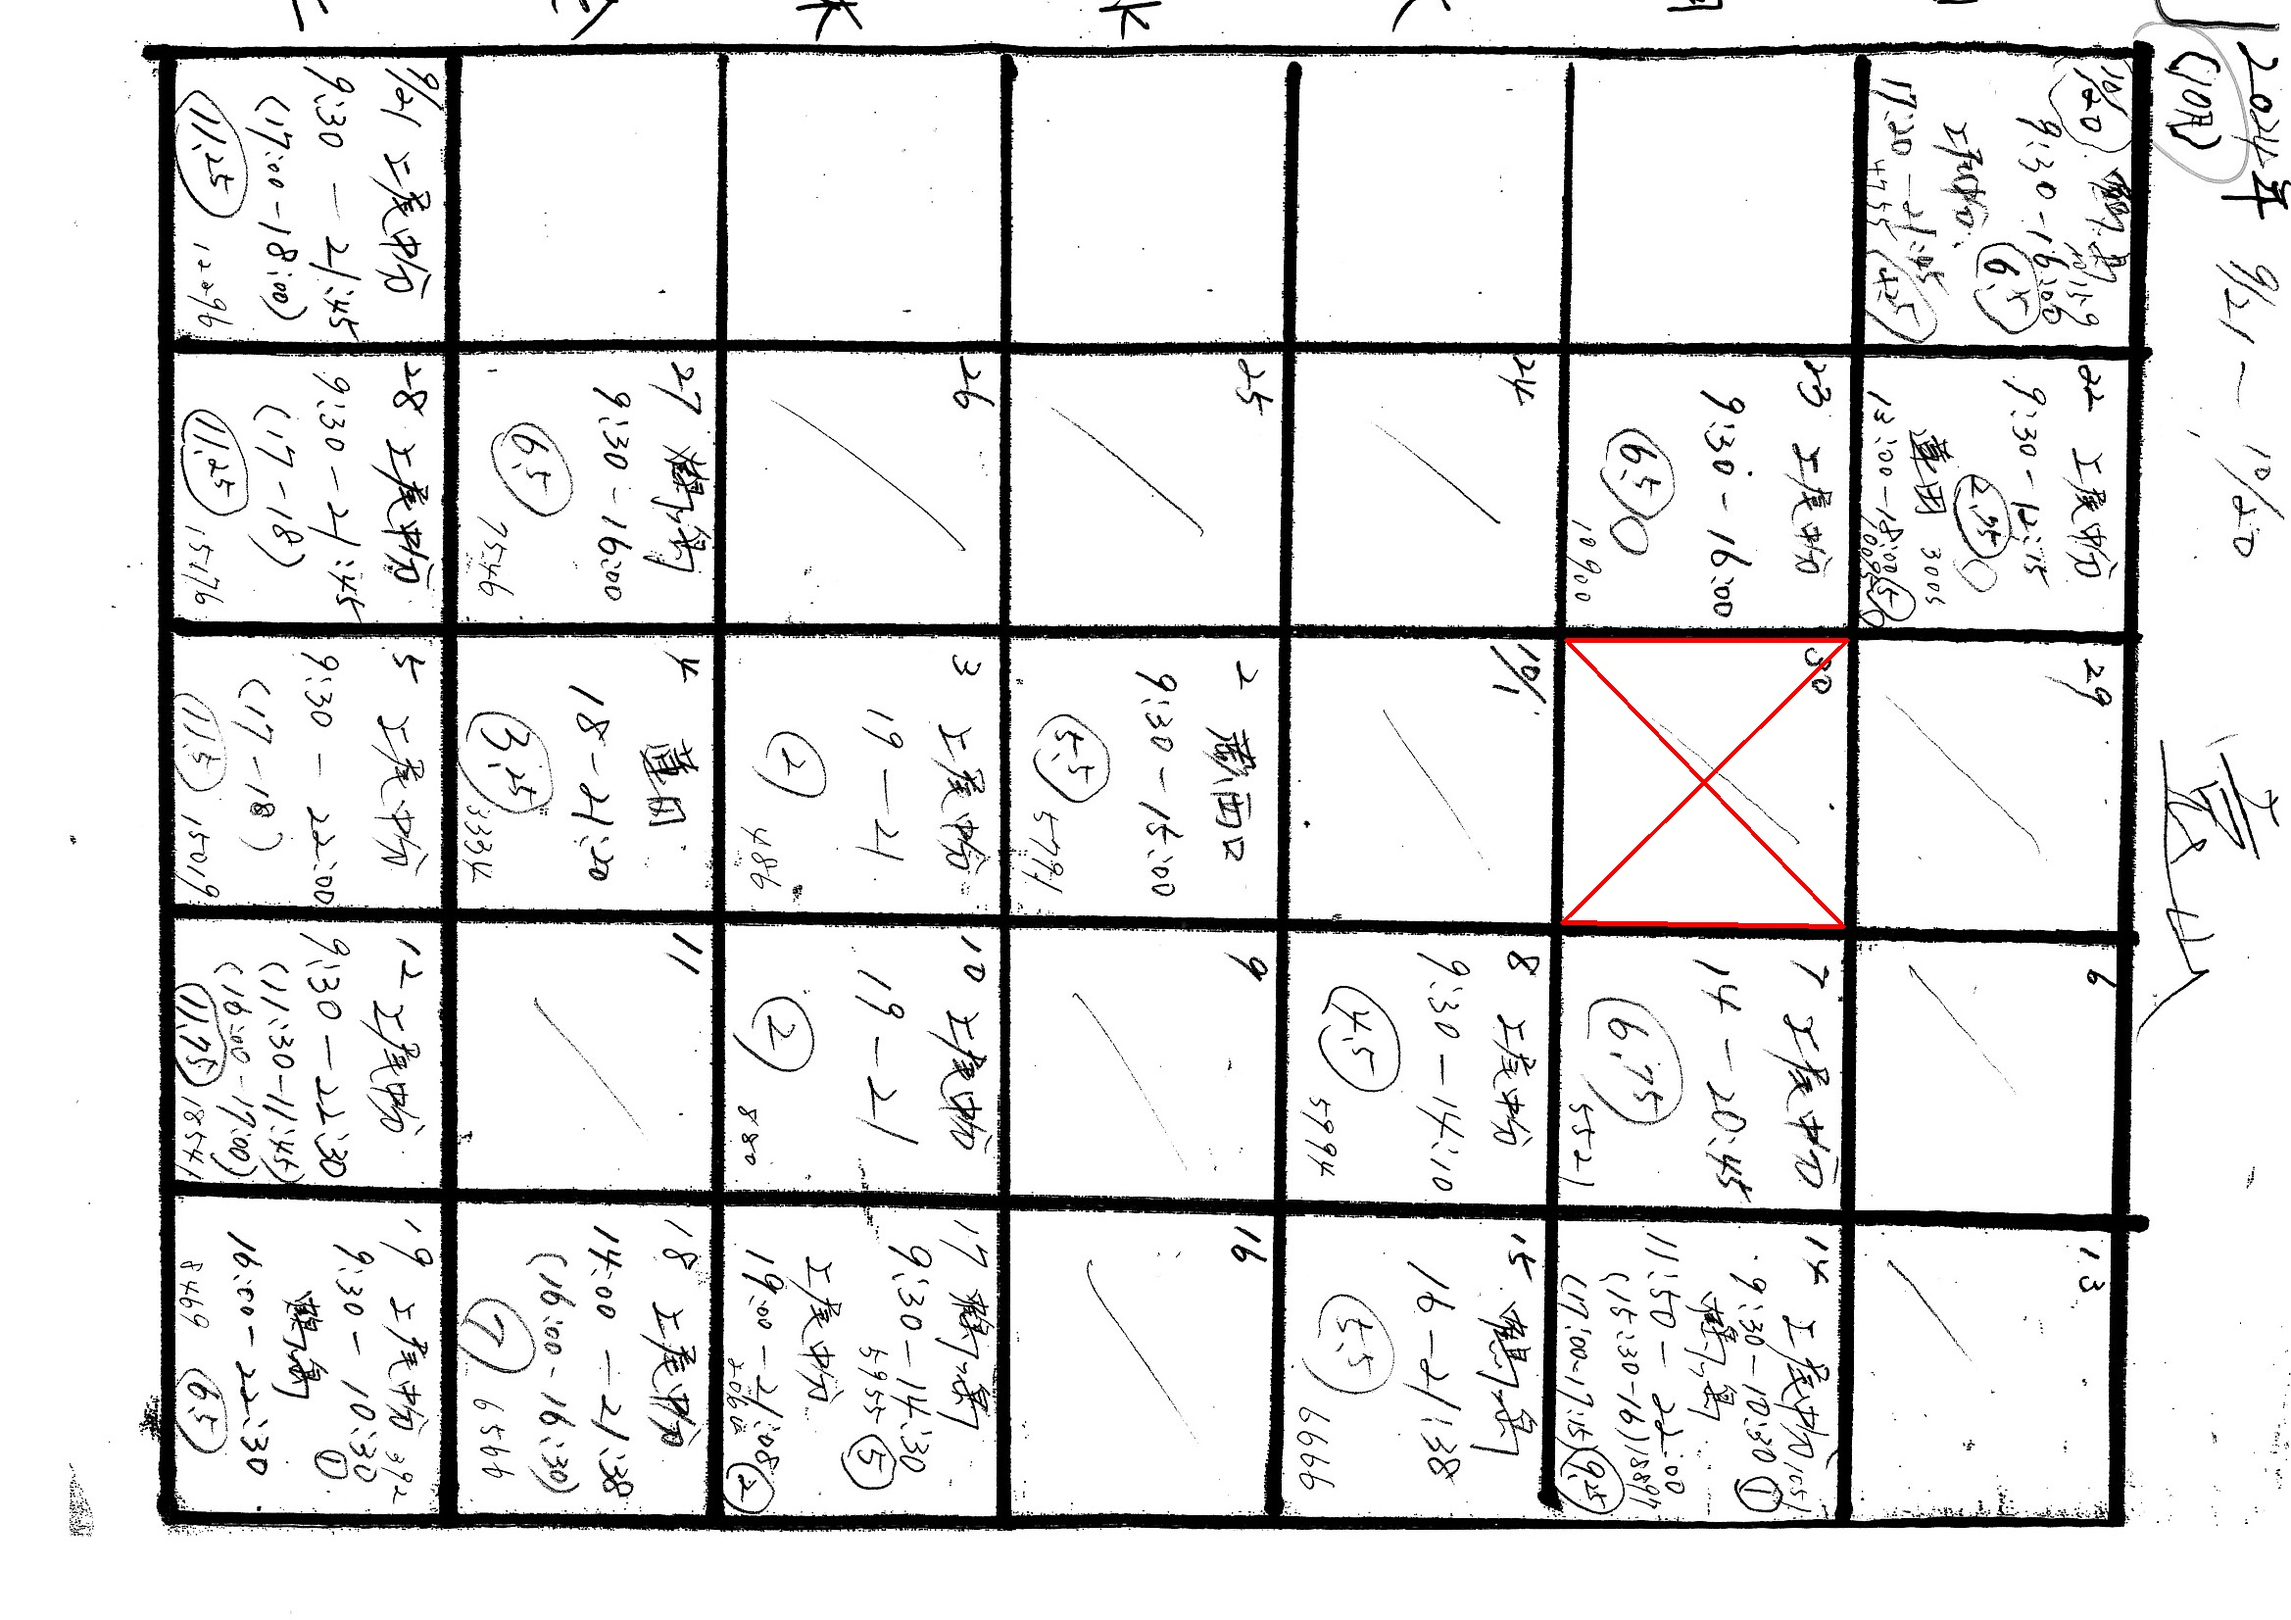
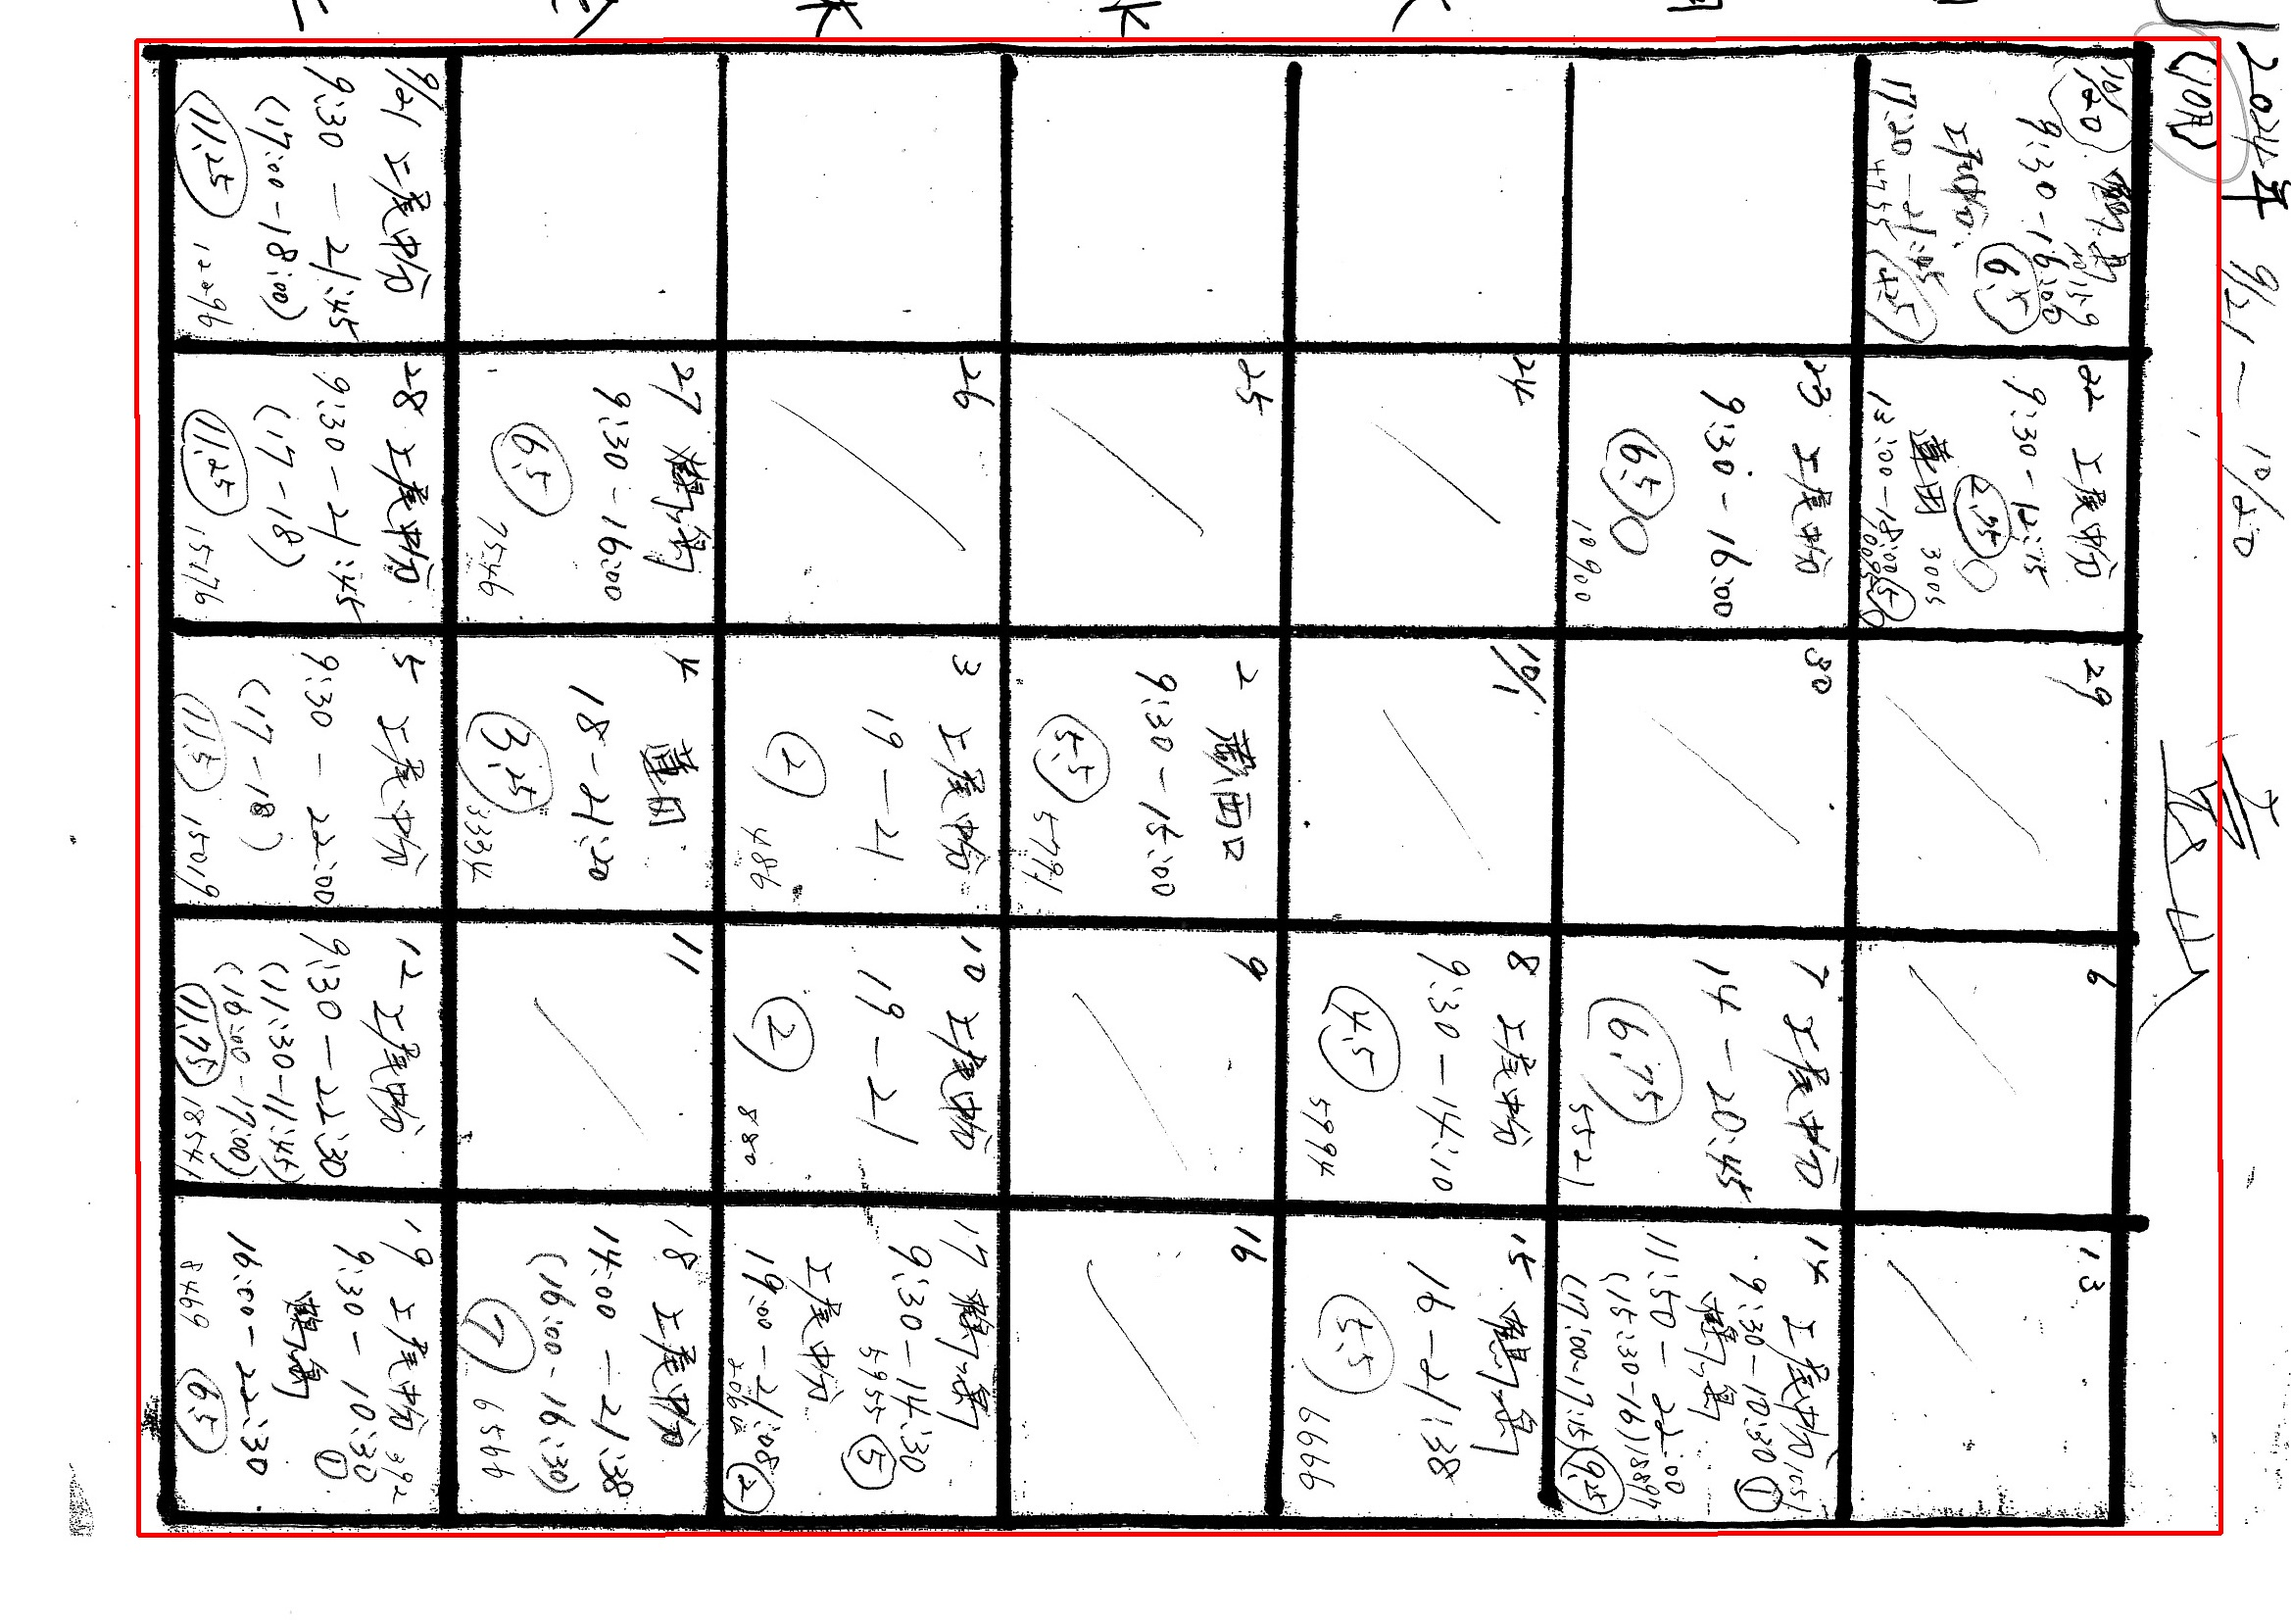
flisk

diff --git a/detect_table.py b/detect_table.py
@@ -4,7 +4,7 @@ import cv2
 import numpy as np
 
 def detect_table_bounds(image):
-    """画像内の最も外側の表の枠（矩形）を検出し、四隅の座標を返す"""
+    """画像内の最も外側の表の枠を検出し、四隅の座標を返す"""
 
     # グレースケール変換
     gray = cv2.cvtColor(image, cv2.COLOR_BGR2GRAY)
@@ -13,33 +13,57 @@ def detect_table_bounds(image):
     blurred = cv2.GaussianBlur(gray, (5, 5), 0)
 
     # エッジ検出（Canny）
-    edges = cv2.Canny(blurred, 50, 150)
+    median = np.median(gray)
+    low = int(max(0, 0.66 * median))
+    high = int(min(255, 1.33 * median))
 
-    # 輪郭を検出
-    contours, _ = cv2.findContours(edges, cv2.RETR_EXTERNAL, cv2.CHAIN_APPROX_SIMPLE)
+    edges = cv2.Canny(blurred, low, high)
+    #edges = cv2.Canny(blurred, 50, 150)
 
-    # 最大の輪郭（表全体の枠）を取得
-    largest_contour = max(contours, key=cv2.contourArea)
+    kernel = np.ones((3,3), np.uint8)
+    edges = cv2.dilate(edges, kernel, iterations=1)
 
-    # 輪郭を近似（四角形にする）
-    epsilon = 0.02 * cv2.arcLength(largest_contour, True)
-    approx = cv2.approxPolyDP(largest_contour, epsilon, True)
+    cv2.imwrite("edges_debug.png", edges)
+    # 輪郭を検出（ツリー構造で取得）
+    contours, hierarchy = cv2.findContours(edges, cv2.RETR_TREE, cv2.CHAIN_APPROX_SIMPLE)
 
-    if len(approx) != 4:
-        print("エラー: 表の枠が四角形として認識されませんでした。", file=sys.stderr)
+    # 最大の矩形を探す
+    max_area = 0
+    best_box = None
+
+    for cnt in contours:
+        # 面積が一定以上のものを対象とする（ノイズ除去）
+        area = cv2.contourArea(cnt)
+        if area < 5000:  # 小さい矩形は除外
+            continue
+
+        # 最小外接矩形（回転可能）
+        rect = cv2.minAreaRect(cnt)
+        box = cv2.boxPoints(rect)
+        box = box.astype(int)  # ここを修正（np.int0 → .astype(int)）
+
+        # アスペクト比のチェック（極端に細長いものを排除）
+        width = np.linalg.norm(box[0] - box[1])
+        height = np.linalg.norm(box[1] - box[2])
+        aspect_ratio = max(width, height) / min(width, height)
+
+        if aspect_ratio > 10:  # 縦長・横長すぎるものを除外
+            continue
+
+        # 最大の矩形を更新
+        if area > max_area:
+            max_area = area
+            best_box = box
+
+    if best_box is None:
+        print("エラー: 表の枠が検出できませんでした。", file=sys.stderr)
         sys.exit(1)
 
-    # 四隅の座標を取得（左上、右上、右下、左下）
-    rect = sorted(approx[:, 0], key=lambda p: (p[1], p[0]))  # Y優先ソート
-    if rect[0][0] > rect[1][0]:
-        rect[0], rect[1] = rect[1], rect[0]
-    if rect[2][0] > rect[3][0]:
-        rect[2], rect[3] = rect[3], rect[2]
-
-    return rect  # [(x1, y1), (x2, y2), (x3, y3), (x4, y4)]
+    # タブ区切りで四隅の座標を出力
+    return [(int(pt[0]), int(pt[1])) for pt in best_box]
 
 def main():
-    # 標準入力から画像を受け取る
+    # 画像を標準入力から読み込む
     img_bytes = sys.stdin.buffer.read()
     np_arr = np.frombuffer(img_bytes, np.uint8)
     image = cv2.imdecode(np_arr, cv2.IMREAD_COLOR)
@@ -54,6 +78,6 @@ def main():
     # タブ区切りで出力
     print("\t".join(map(str, [coord for point in corners for coord in point])))
 
+
 if __name__ == "__main__":
     main()
-

diff --git a/upload.py b/upload.py
@@ -1,0 +1,58 @@
+import os
+import hashlib
+from flask import Flask, request, render_template_string
+
+app = Flask(__name__)
+
+UPLOAD_FOLDER = "/var/www/html/opencv"
+ALLOWED_EXTENSIONS = {"png", "jpg", "jpeg", "gif", "mp4", "avi", "mov", "txt", "pdf"}
+
+# 必要ならディレクトリを作成
+os.makedirs(UPLOAD_FOLDER, exist_ok=True)
+
+def allowed_file(filename):
+    return "." in filename and filename.rsplit(".", 1)[1].lower() in ALLOWED_EXTENSIONS
+
+@app.route("/python/", methods=["GET", "POST"])
+def upload_file():
+    if request.method == "POST":
+        if "file" not in request.files:
+            return "No file part", 400
+        file = request.files["file"]
+        if file.filename == "":
+            return "No selected file", 400
+        if file and allowed_file(file.filename):
+            file_data = file.read()
+            file_hash = hashlib.md5(file_data).hexdigest()
+            file_ext = os.path.splitext(file.filename)[1].lower()
+            new_filename = f"{file_hash}{file_ext}"
+            filepath = os.path.join(UPLOAD_FOLDER, new_filename)
+
+            with open(filepath, "wb") as f:
+                f.write(file_data)
+
+            return render_template_string("""
+            <html>
+            <head><meta charset="UTF-8"><title>Upload Success</title></head>
+            <body>
+                <h2>File uploaded successfully!</h2>
+                <p>Original File: {{ filename }}</p>
+                <p>Saved File: {{ new_filename }}</p>
+                <a href="/opencv/{{ new_filename }}" target="_blank">View File</a>
+            </body>
+            </html>
+            """, filename=file.filename, new_filename=new_filename)
+
+    return '''
+    <!doctype html>
+    <title>Upload File</title>
+    <h1>Upload a file</h1>
+    <form action="/python/" method="post" enctype="multipart/form-data">
+        <input type="file" name="file">
+        <input type="submit" value="Upload">
+    </form>
+    '''
+
+if __name__ == "__main__":
+    app.run(host="0.0.0.0", port=5000, debug=True)
+

diff --git a/rotate.py b/rotate.py
@@ -1,0 +1,63 @@
+#!/usr/bin/env python3
+import sys
+import os
+import cv2
+import numpy as np
+
+def rotate_image(input_stream, angle):
+    # 入力データをバイト列として読み取る
+    img_bytes = input_stream.read()
+    
+    # NumPy 配列に変換
+    np_arr = np.frombuffer(img_bytes, np.uint8)
+    
+    # OpenCV で画像をデコード
+    img = cv2.imdecode(np_arr, cv2.IMREAD_COLOR)
+    
+    if img is None:
+        print("エラー: 画像の読み込みに失敗しました。", file=sys.stderr)
+        sys.exit(1)
+
+    # 回転処理
+    if angle == 90:
+        img = cv2.rotate(img, cv2.ROTATE_90_CLOCKWISE)
+    elif angle == 180:
+        img = cv2.rotate(img, cv2.ROTATE_180)
+    elif angle == 270:
+        img = cv2.rotate(img, cv2.ROTATE_90_COUNTERCLOCKWISE)
+
+    return img
+
+def main():
+    # 引数チェック
+    if len(sys.argv) != 2:
+        print("使い方: python rotate.py <角度(0, 90, 180, 270)>", file=sys.stderr)
+        sys.exit(1)
+
+    # 角度を取得
+    try:
+        angle = int(sys.argv[1])
+        if angle not in {0, 90, 180, 270}:
+            raise ValueError
+    except ValueError:
+        print("エラー: 角度は 0, 90, 180, 270 のいずれかを指定してください。", file=sys.stderr)
+        sys.exit(1)
+
+    # 標準入力から画像を受け取る
+    img = rotate_image(sys.stdin.buffer, angle)
+
+    # 標準出力に書き込めるかチェック
+    if sys.stdout.isatty():
+        # 標準出力が使えない場合は、ファイルとして保存
+        input_filename = "output"
+        output_filename = f"{input_filename}.{angle}.jpeg"
+        cv2.imwrite(output_filename, img, [int(cv2.IMWRITE_JPEG_QUALITY), 95])
+        print(f"画像を {output_filename} に保存しました。")
+    else:
+        # 標準出力に書き込む
+        _, buffer = cv2.imencode(".jpeg", img, [int(cv2.IMWRITE_JPEG_QUALITY), 95])
+        sys.stdout.buffer.write(buffer.tobytes())
+
+if __name__ == "__main__":
+    main()
+

diff --git a/ocr_preprocess.py b/ocr_preprocess.py
@@ -1,0 +1,56 @@
+import cv2
+import numpy as np
+import pytesseract
+import argparse
+import os
+
+# 環境変数を設定（Tesseractが日本語を正しく認識できるようにする）
+os.environ["TESSDATA_PREFIX"] = "/usr/share/tesseract-ocr/5/tessdata"
+
+def preprocess_image(image_path):
+    """罫線を消去し、OCRしやすい画像を作成"""
+    # 画像を読み込む（カラー）
+    image = cv2.imread(image_path)
+
+    # グレースケール変換
+    gray = cv2.cvtColor(image, cv2.COLOR_BGR2GRAY)
+
+    # 罫線を薄くするためのぼかし
+    blurred = cv2.GaussianBlur(gray, (3, 3), 0)
+
+    # 二値化（適応的閾値）で文字を強調
+    binary = cv2.adaptiveThreshold(blurred, 255, cv2.ADAPTIVE_THRESH_GAUSSIAN_C, cv2.THRESH_BINARY_INV, 11, 2)
+
+    # 罫線をぼかして除去（メディアンフィルタ）
+    binary = cv2.medianBlur(binary, 5)
+
+    # 文字を強調するための処理（膨張・収縮）
+    kernel = np.ones((2,2), np.uint8)
+    binary = cv2.dilate(binary, kernel, iterations=1)
+    binary = cv2.erode(binary, kernel, iterations=1)
+
+    return binary
+
+def perform_ocr(image):
+    """OCRを実行し、読み取った文字列を返す"""
+    text = pytesseract.image_to_string(image, lang="jpn", config="--psm 6")
+    return text
+
+def main():
+    # 引数の設定
+    parser = argparse.ArgumentParser(description="画像から罫線を除去し、OCRを実行する")
+    parser.add_argument("image_path", help="OCRを実行する画像ファイルのパス")
+    args = parser.parse_args()
+
+    # 画像の前処理
+    processed_image = preprocess_image(args.image_path)
+
+    # OCRの実行
+    text = perform_ocr(processed_image)
+
+    # 結果を標準出力
+    print(text)
+
+if __name__ == "__main__":
+    main()
+

diff --git a/files.py b/files.py
@@ -1,0 +1,56 @@
+import os
+from flask import Blueprint, render_template_string
+
+files_bp = Blueprint('files', __name__)
+
+UPLOAD_FOLDER = "/var/www/html/opencv"
+ALLOWED_EXTENSIONS = {"jpg", "jpeg", "png", "gif"}
+
+@files_bp.route("/python/files")
+def list_files():
+    try:
+        files = os.listdir(UPLOAD_FOLDER)
+        files = [f for f in files if f.split('.')[-1].lower() in ALLOWED_EXTENSIONS]
+        files.sort(key=lambda f: os.path.getmtime(os.path.join(UPLOAD_FOLDER, f)), reverse=True)
+    except Exception as e:
+        return f"Error reading directory: {str(e)}"
+
+    return render_template_string("""
+    <!DOCTYPE html>
+    <html lang="ja">
+    <head>
+        <meta charset="UTF-8">
+        <title>Image List</title>
+        <style>
+            .img_div {
+                margin: 10px;
+                float: left;
+            }
+            .img {
+                width: 200px;
+            }
+            .img_name {
+                margin: 0;
+            }
+            .clear {
+                clear: both;
+            }
+        </style>
+    </head>
+    <body>
+        <a href="/python/">Upload</a>
+        <div class="list">
+        {% for file in files %}
+            <div class="img_div">
+                <p class="img_name">{{ file }}</p>
+                <a href="/opencv/{{ file }}">
+                    <img class="img" src="/opencv/{{ file }}" alt="{{ file }}">
+                </a>
+            </div>
+        {% endfor %}
+        <div class="clear"></div>
+        </div>
+    </body>
+    </html>
+    """, files=files)
+
